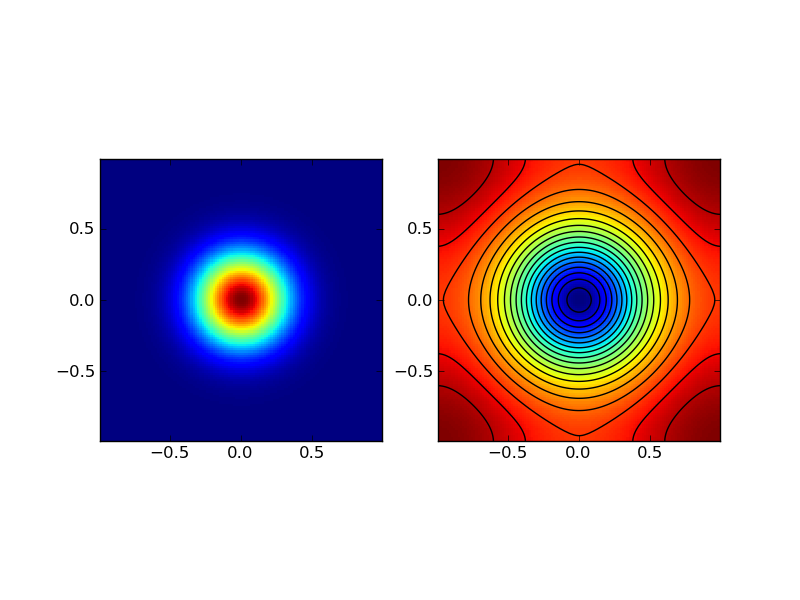
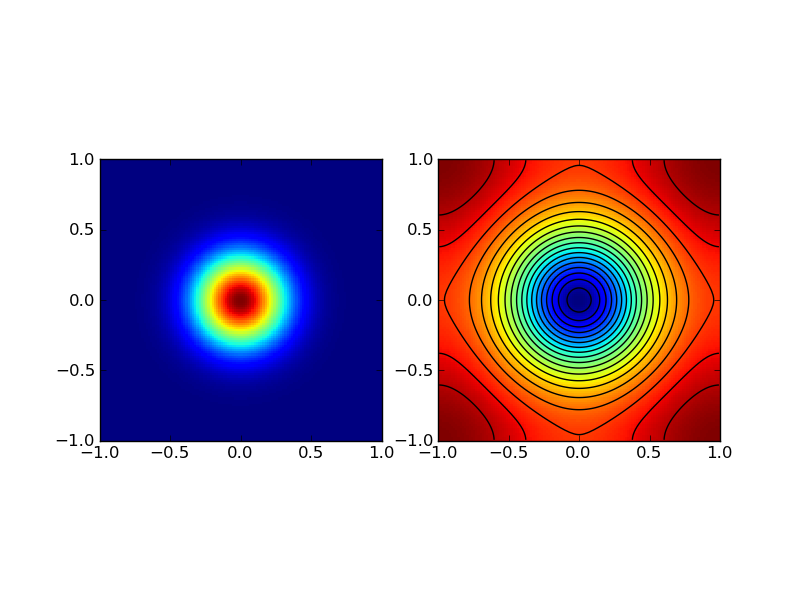
Added more plots

diff --git a/sims/code/periodic-poisson2d.py b/sims/code/periodic-poisson2d.py
@@ -22,19 +22,27 @@ def main():
     nx, ny = gridGrp._v_attrs.vsNumCells
     dx = (xup-xlo)/nx
     dy = (yup-ylo)/ny
+
     X = pylab.linspace(xlo+0.5*dx, xup-0.5*dx, nx)
     Y = pylab.linspace(ylo+0.5*dy, yup-0.5*dy, ny)
-    XX, YY = pylab.meshgrid(X, Y)
+    XX, YY = pylab.meshgrid(X, Y)    
+
+    # for plotting we need vertex coordinates
+    Xp = pylab.linspace(xlo, xup, nx+1)
+    Yp = pylab.linspace(ylo, yup, ny+1)
+    XXp, YYp = pylab.meshgrid(Xp, Yp)
 
     # read data
     src = srcFile.root.StructGridField
     sol = solFile.root.StructGridField    
     pylab.figure(1)
     pylab.subplot(1,2,1)
-    pylab.pcolormesh(XX, YY, src[:,:,0]); pylab.axis('image')
+    pylab.pcolormesh(XXp, YYp, src[:,:,0].transpose());
+    pylab.axis('image')
     pylab.subplot(1,2,2)
-    pylab.pcolormesh(XX, YY, sol[:,:,0]); pylab.axis('image')
-    pylab.contour(XX, YY, sol[:,:,0], 20, colors='k', linestyles='solid')
+    pylab.pcolormesh(XXp, YYp, sol[:,:,0].transpose());
+    pylab.axis('image')
+    pylab.contour(XX, YY, sol[:,:,0].transpose(), 20, colors='k', linestyles='solid')
     pylab.savefig(options.input + "_2d_src_sol.png")
 
     pylab.show()

diff --git a/je/je1/je1-periodic-poisson.rst b/je/je1/je1-periodic-poisson.rst
@@ -48,11 +48,8 @@ is tested on and verified a few test problems.
 Test Problem 1
 --------------
 
-The domain is selected to be a square with
-:math:`L_x=L_y=2`. Second-order finite-differences are used to verify
-that the solution satisfies the Poisson equation.
-
-The first problem is for a Gaussian source term of the form
+The domain is selected to be a square with :math:`L_x=L_y=2`. The
+source is an isotropic Gaussian source of the form
 
 .. math::
 
@@ -71,14 +68,14 @@ The source and the numerical solution is shown below.
 Test Problem 2
 --------------
 
-The domain and resolution are the same as problem 1. An anisotropic
-Gaussian source term of the form
+The domain and resolution are the same as problem 1. The source is an
+anisotropic Gaussian source of the form
 
 .. math::
 
   s(x,y) = e^{-10(2x^2+4xy+5y^2)}
 
-is used. The source and the numerical solution is shown below.
+The source and the numerical solution is shown below.
 
 .. figure:: s2-periodic-poisson_2d_src_sol.png
   :width: 100%
